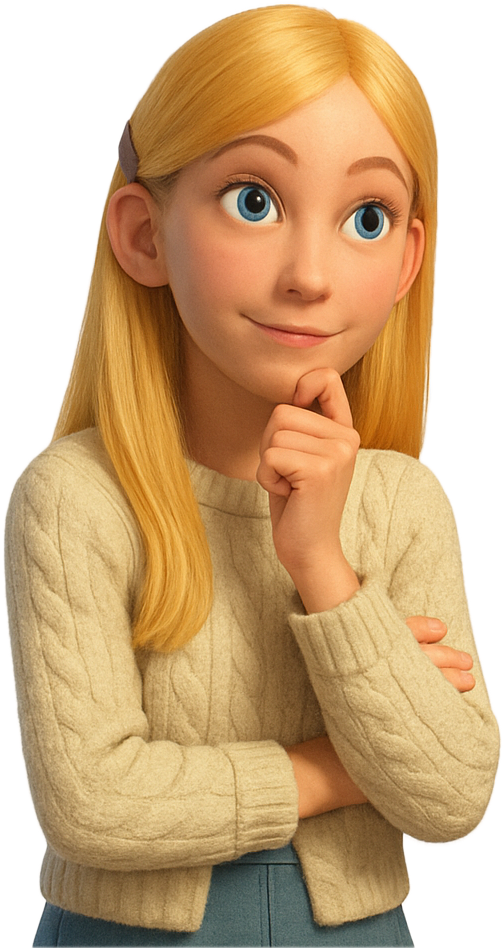
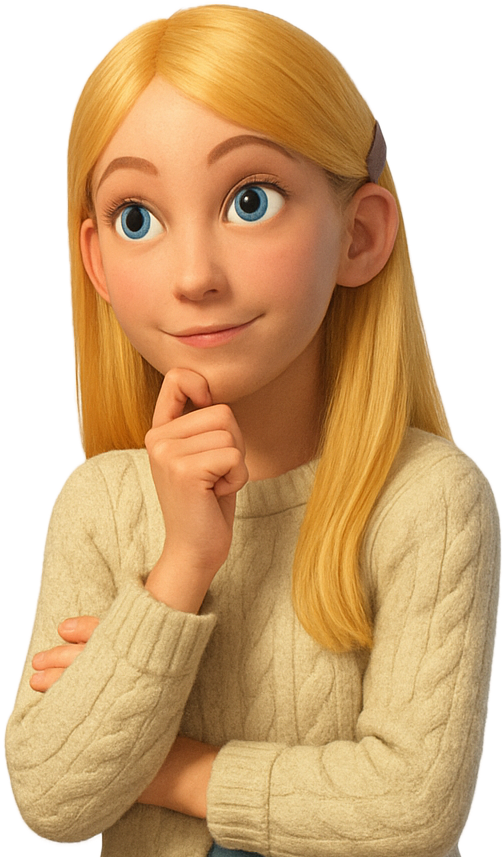
Lagt til bilder på tilbakemeldinger

diff --git a/app/page.tsx b/app/page.tsx
@@ -1,6 +1,7 @@
 'use client'
 
 import { useState, useEffect } from 'react'
+import Image from 'next/image'
 import { Textarea } from '@/components/ui/textarea'
 import { Input } from '@/components/ui/input'
 import { Button } from '@/components/ui/button'
@@ -98,6 +99,12 @@ export default function SpraakhjelpperPage() {
   const [error, setError] = useState<string | null>(null)
   const [currentSentenceIndex, setCurrentSentenceIndex] = useState(0)
   const [showNorwegianExplanation, setShowNorwegianExplanation] = useState(true)
+  
+  // Teacher selection - randomly chosen on component mount, persists through session
+  const [teacherVersion, setTeacherVersion] = useState<1 | 2>(() => {
+    // Randomly select teacher 1 or 2 on first load
+    return Math.random() < 0.5 ? 1 : 2
+  })
   const [retryInput, setRetryInput] = useState('')
   const [showSummary, setShowSummary] = useState(false)
   const [showForm, setShowForm] = useState(true)
@@ -266,6 +273,18 @@ export default function SpraakhjelpperPage() {
   }
 
   const currentSentence = result?.results[currentSentenceIndex]
+
+  // Get teacher image based on sentence status
+  const getTeacherImage = (status: 'riktig' | 'riktig_2' | 'feil' | undefined) => {
+    // Add version parameter to bust cache for updated images
+    const version = 'v2'
+    if (status === 'riktig' || status === 'riktig_2') {
+      return `/images/riktig_${teacherVersion}.png?${version}`
+    } else if (status === 'feil') {
+      return `/images/feil_${teacherVersion}.png?${version}`
+    }
+    return `/images/JP_positiv.png?${version}` // Default fallback
+  }
 
   const copyToClipboard = async (text: string) => {
     try {
@@ -795,18 +814,34 @@ export default function SpraakhjelpperPage() {
           <Card className="flex flex-col h-[calc(100vh-12rem)]">
             <CardContent className="flex-1 flex flex-col overflow-hidden p-6">
               <div className="space-y-6 flex-1 overflow-y-auto">
-                <div>
-                  <p className="text-lg font-semibold mb-1">Din setning:</p>
-                  <div className={`text-sm rounded-lg p-3 ${
-                    currentSentence.setning_status === 'feil' 
-                      ? 'bg-red-50 border border-red-200' 
-                      : 'bg-green-50 border border-green-200'
-                  }`}>
-                    {currentSentence.bruker_setning}
+                {/* Din setning section with teacher image */}
+                <div className="flex items-start gap-4">
+                  <div className="flex-1">
+                    <p className="text-lg font-semibold mb-1">Din setning:</p>
+                    <div className={`text-sm rounded-lg p-3 ${
+                      currentSentence.setning_status === 'feil' 
+                        ? 'bg-red-50 border border-red-200' 
+                        : 'bg-green-50 border border-green-200'
+                    }`}>
+                      {currentSentence.bruker_setning}
+                    </div>
+                  </div>
+                  
+                  {/* Teacher image */}
+                  <div className="flex-shrink-0">
+                    <Image 
+                      src={getTeacherImage(currentSentence.setning_status)} 
+                      alt="Lærer"
+                      width={96}
+                      height={96}
+                      className="object-contain"
+                      priority
+                    />
                   </div>
                 </div>
                 
                 <div className="space-y-2">
+                {/* Header section with language buttons */}
                 <div className="flex items-center justify-between">
                   <h3 className="text-lg font-semibold">Forslag til forbedringer:</h3>
                   <div className="flex items-center space-x-2">

diff --git a/app/api/generate-summary-azure/route.ts b/app/api/generate-summary-azure/route.ts
@@ -55,7 +55,7 @@ Analyser teksten og gi tilbakemelding på følgende områder:
 3. **Ordliste** - Liste over ord eleven har skrevet feil:
    - Feil skrevet ord fra elevens tekst
    - Korrekt stavemåte
-   - Kun ord som faktisk er feil stavet (ikke grammatikkfeil)
+   - Kun ord som faktisk er feil stavet (ikke grammatikkfeil). For eksempel hvis eleven har skrevet "like" i stedet for "liker", så skal ikke "like" være med i ordlisten.
 
 ## Retningslinjer
 - Vær oppmuntrende og konstruktiv

diff --git a/public/docs/TEACHER_IMAGES_FEATURE.md b/public/docs/TEACHER_IMAGES_FEATURE.md
@@ -1,0 +1,70 @@
+# Lærerbilde-funksjon
+
+## Oversikt
+
+Språkhjelperen viser nå dynamiske lærerbilder som gir visuell tilbakemelding basert på om setningen er riktig eller feil.
+
+## Funksjonalitet
+
+### Tilfeldig lærervalg
+- Ved første lasting av siden velges en tilfeldig lærer (1 eller 2)
+- Den samme læreren følger brukeren gjennom hele økten
+- Ny lærer velges kun når nettleseren oppdateres
+
+### Bildetype basert på status
+- **Riktig setning**: Viser `riktig_1.png` eller `riktig_2.png` (avhengig av valgt lærer)
+- **Feil setning**: Viser `feil_1.png` eller `feil_2.png` (avhengig av valgt lærer)
+- **Fallback**: `JP_positiv.png` hvis status ikke er definert
+
+## Implementeringsdetaljer
+
+### State Management
+```typescript
+const [teacherVersion, setTeacherVersion] = useState<1 | 2>(() => {
+  // Randomly select teacher 1 or 2 on first load
+  return Math.random() < 0.5 ? 1 : 2
+})
+```
+
+### Bildevalg-funksjon
+```typescript
+const getTeacherImage = (status: 'riktig' | 'riktig_2' | 'feil' | undefined) => {
+  if (status === 'riktig' || status === 'riktig_2') {
+    return `/images/riktig_${teacherVersion}.png`
+  } else if (status === 'feil') {
+    return `/images/feil_${teacherVersion}.png`
+  }
+  return `/images/JP_positiv.png` // Default fallback
+}
+```
+
+### UI-plassering
+Lærerbildet vises i høyre hjørne av tilbakemeldingsseksjonen, ved siden av språkvalg-knappene.
+
+## Bilder
+
+Følgende bilder brukes:
+- `public/images/riktig_1.png` - Lærer 1, positiv tilbakemelding
+- `public/images/riktig_2.png` - Lærer 2, positiv tilbakemelding
+- `public/images/feil_1.png` - Lærer 1, konstruktiv tilbakemelding
+- `public/images/feil_2.png` - Lærer 2, konstruktiv tilbakemelding
+- `public/images/JP_positiv.png` - Fallback-bilde
+- `public/images/JP_tenke.png` - Reservebilde (ikke i bruk)
+
+## Design
+
+Bildet er:
+- 128x128 piksler
+- Plassert i høyre hjørne
+- Bruker Next.js Image-komponent for optimalisering
+- Prioritert lasting (`priority` prop)
+- Responsivt design
+
+## Brukeropplevelse
+
+1. Brukeren starter en ny økt
+2. En tilfeldig lærer (1 eller 2) velges
+3. For hver setning vises riktig lærerbilde basert på om setningen er riktig eller feil
+4. Samme lærer vises konsekvent gjennom hele økten
+5. Ved neste besøk (oppdatering av nettleser) velges en ny tilfeldig lærer
+
